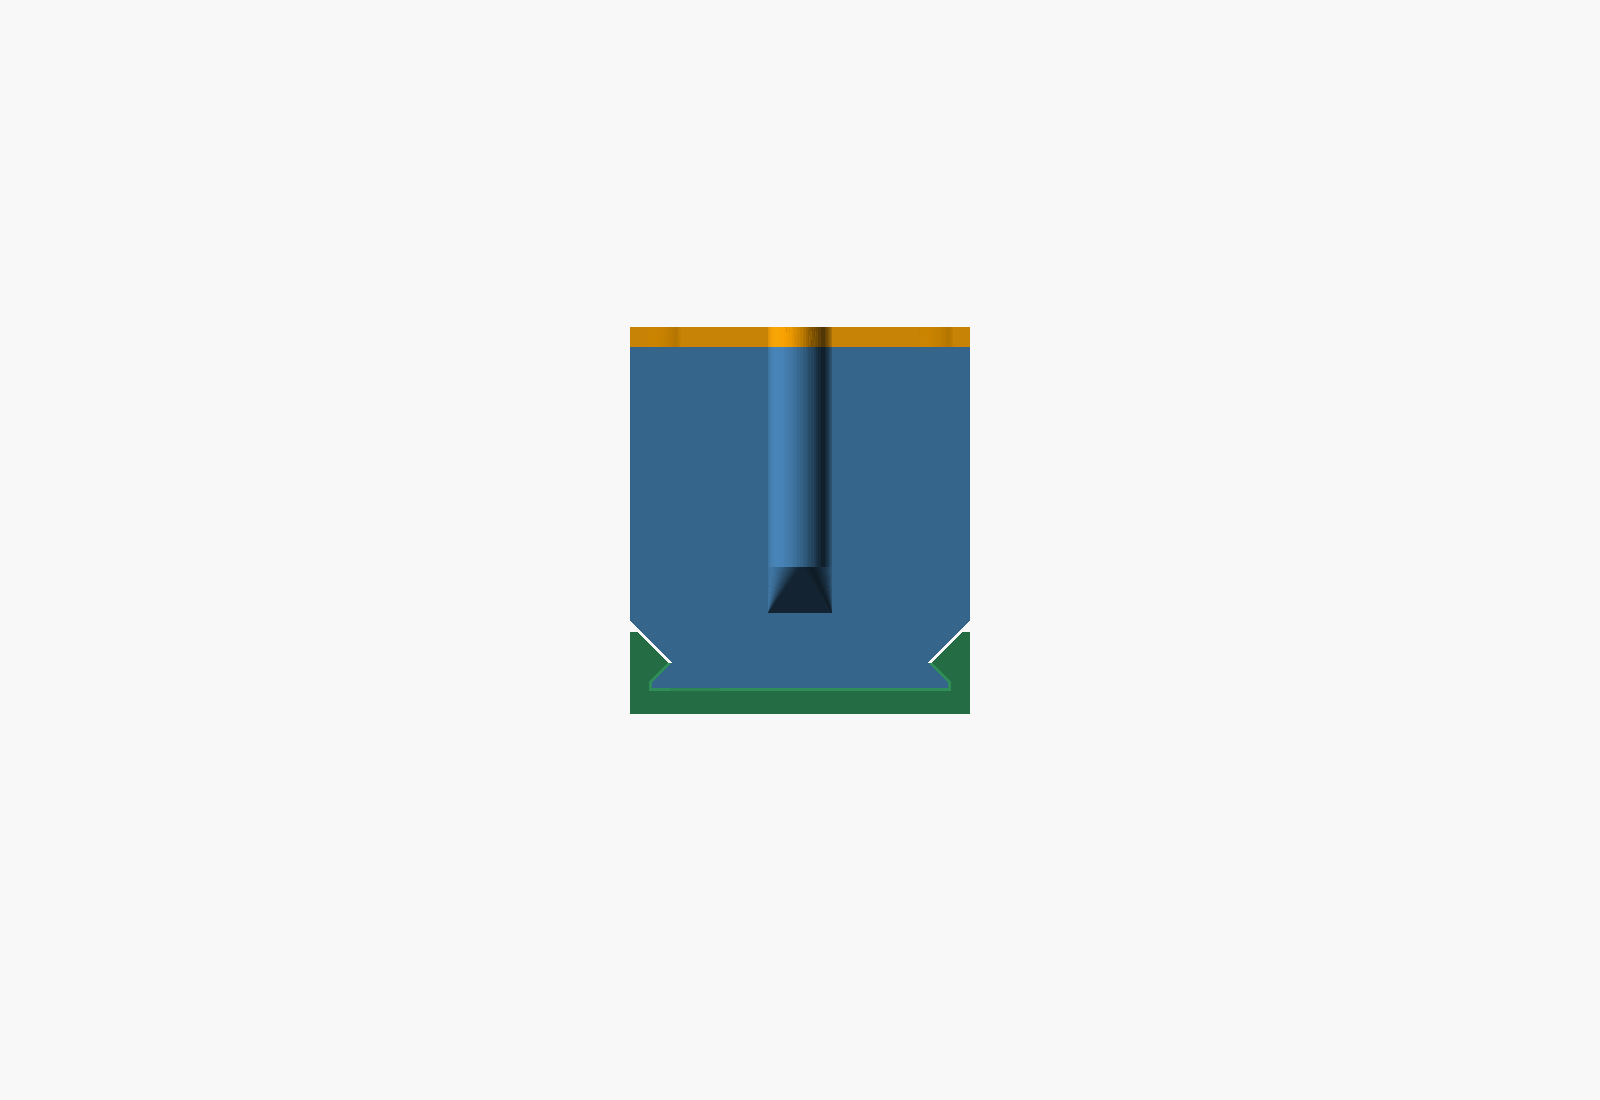
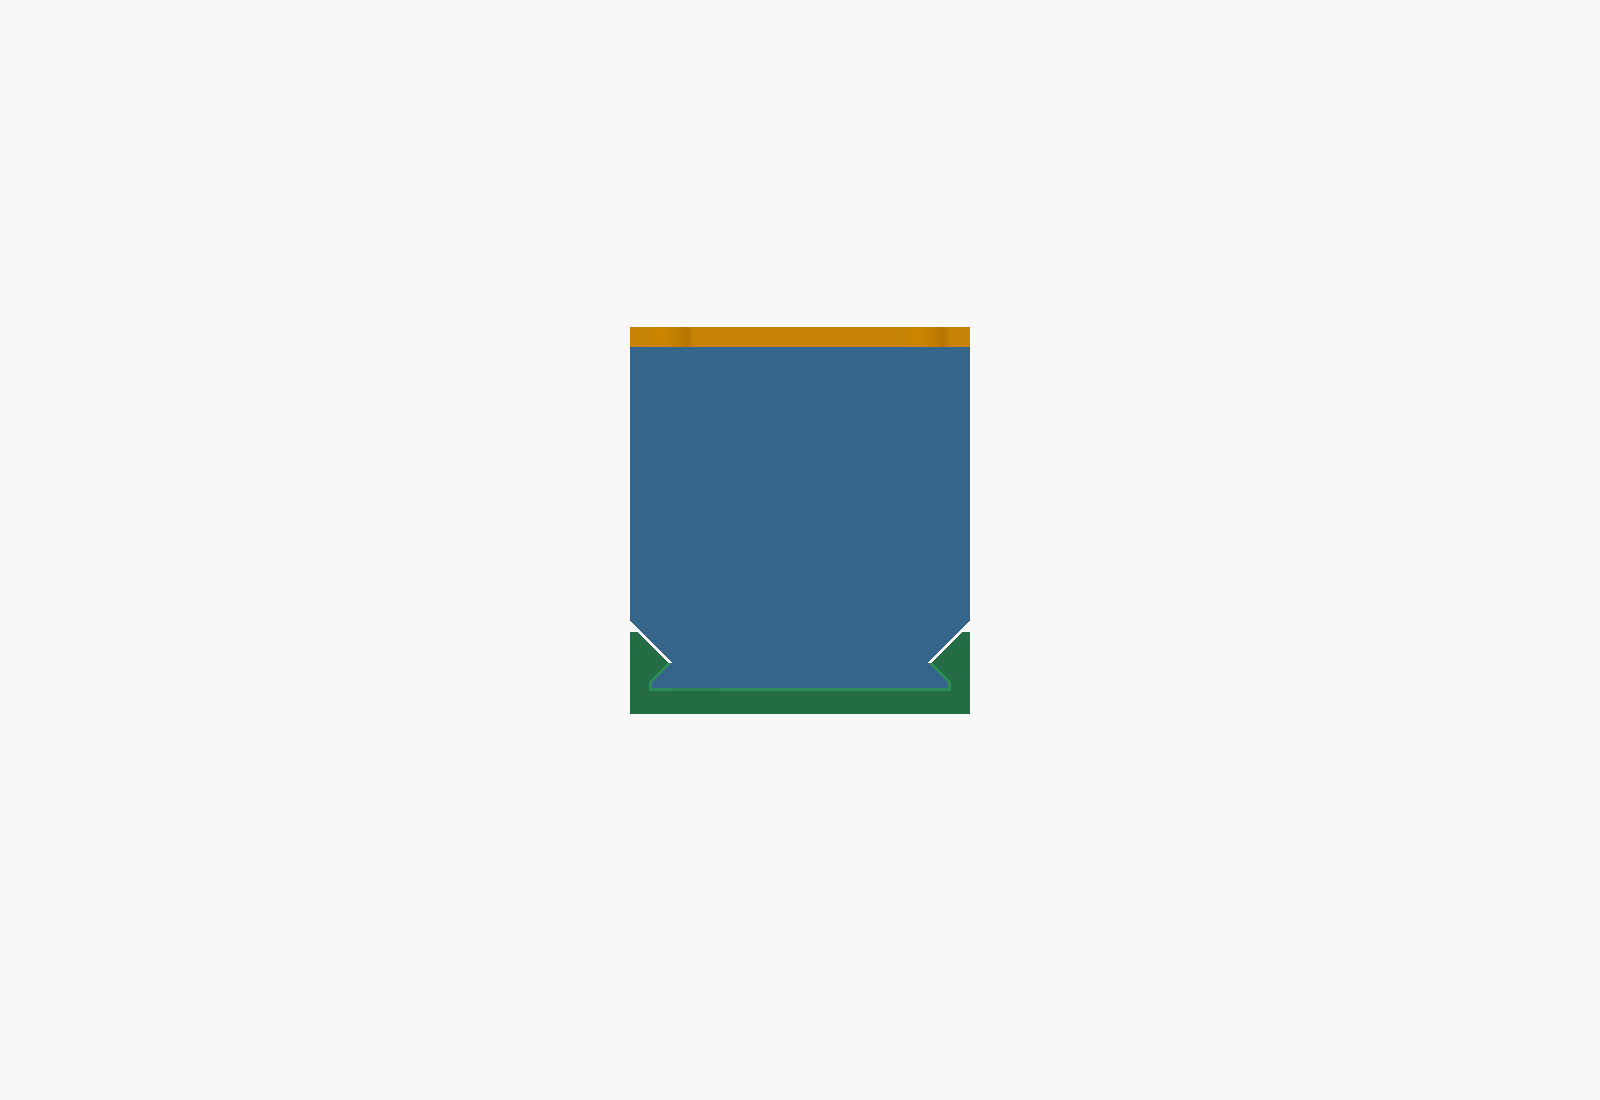
b1-proto-30x70: four long M2 screws hold the lid and the board
The lid has a hollow leg over each corner of the board; a screw down each
leg goes through the board into the post. The head sits on a shoulder
inside the leg, below the lid's top, at a height set by lid_screw_l. No M3
lid screws, no lugs: nothing sticks out of the case.

Changed region(s): [[0.4688, 0.2782, 0.5312, 0.5564]]

diff --git a/b1-proto-30x70/README.md b/b1-proto-30x70/README.md
@@ -124,23 +124,29 @@ was printed and fitted; everything about how this board sits in it is new.
 
 | Part | What it does | How to print |
 |---|---|---|
-| `body` | Open box. The board sits on four corner posts, held by an M2 x 5 screw in each corner hole. The Node hangs below the board, the Timer stands above it | Floor down, as exported. No supports |
-| `lid` | Closes the box with three M3 screws; a tab fills the wall above the Ethernet jack | Outer face down, as exported. No supports |
+| `body` | Open box. The board sits on four corner posts, one under each corner hole. The Node hangs below the board, the Timer stands above it | Floor down, as exported. No supports |
+| `lid` | Four hollow legs stand on the board's corners. A long M2 screw down each leg goes through the board and into the post, so the same four screws hold the lid and the board. A tab fills the wall above the Ethernet jack | Outer face down, legs up, as exported. No supports |
 | `base-flat` | Plate for sitting on the ground. Its sides are flush with the case's | Plate down, as exported. No supports |
 | `base-pvc-half-inch`, `base-pvc-three-quarter-inch` | Snap-on pipe clip with an M3 set screw against rotation, threaded straight into the plastic | Standing on its far end, as exported. No supports |
 | `base-strap` | Saddle with one tunnel for a 20 mm strap | Standing on its far end, as exported. No supports |
 
-Case 91 x 35 x 37 mm (95 mm over the lid's end lug). A base adds 3 mm underneath and nothing
-at the sides.
+Case 91 x 35 x 37 mm, with nothing sticking out of it. A base adds 3 mm underneath and
+nothing at the sides.
 
 ![Flat base: flush with the sides](pictures/assembly-flat.png)
 
-- **One opening, for the Ethernet jack.** To reach either USB-C port, take the lid off, undo
-  the four M2 screws and lift the board out.
-- **Nothing sticks out of the long sides.** The lid's screws are inside the two Ethernet-end
-  corners and on the far end wall, so a base is exactly as wide as the case. The dovetail
-  foot is set in from the sides for the same reason: the base's rails sit under the case's
-  sloped lower edges.
+- **One opening, for the Ethernet jack.** To reach either USB-C port, undo the four screws,
+  take the lid off and lift the board out.
+- **Four screws for everything.** Each sits on a shoulder inside its leg, below the top of
+  the lid. How far below depends on the screw: set `lid_screw_l` to the length you have and
+  the shoulder moves so that 4.5 mm of screw goes into the post. An M2 x 20 sits 9 mm down;
+  anything from about M2 x 10 to M2 x 30 works, and `build.sh` prints a warning outside
+  that.
+- **Nothing sticks out of the case.** There are no lugs. The dovetail foot is set in from
+  the sides for the same reason: the base's rails sit under the case's sloped lower edges,
+  so a base is exactly as wide as the case.
+- **With the lid off**, the board can still be screwed to its posts with M2 x 5 screws, for
+  bench work.
 - **A base slides on from the Ethernet end** until the case meets the stop at the base's
   Ethernet end, and clicks. A pull on the Ethernet cable pushes the case into the stop. Pull
   the case towards the far end to take it off.
@@ -150,8 +156,9 @@ at the sides.
 
 ### Hardware
 
-- 4 x M2 x 5 screw: board to the corner posts. They cut their own thread.
-- 3 x M3 screw, 8 to 12 mm: lid.
+- 4 x long M2 screw, all the same length (`lid_screw_l`, 20 mm as drawn): lid and board
+  together. They cut their own thread in the posts.
+- Optional, 4 x M2 x 5: the board alone, with the lid off.
 - Pipe base only: 1 x M3 screw, 8 or 10 mm, as a set screw. It cuts its own thread in the
   clip; there is no nut.
 
@@ -167,6 +174,7 @@ Parameters at the top of `case.scad`.
 
 | Parameter | Value | What to measure |
 |---|---|---|
+| `lid_screw_l` | 20 | **The length of your long M2 screws, under the head.** Set it before exporting |
 | `mh_inset` | 2.0 | Centre of a corner mounting hole to each edge of the protoboard. Measured with a ruler on the built board, not calipers. The posts and their screw holes follow it |
 | `under_h` | 10 | Room below the protoboard. Measured on the built board: 7 mm from the underside of the protoboard to the top of the Node's USB-C, its highest point. That leaves 3 mm, which the antenna lead shares |
 | `board_t` | 1.6 | Protoboard thickness |
@@ -182,7 +190,11 @@ parts, and these in particular.
 
 - **Corner screws beside the Timer.** The two corner holes at the `A` end are about 2.5 mm
   from the Timer board's edge. On the built board it is tight but nothing covers them.
-- **The lid columns in the Ethernet-end corners** leave 0.6 mm to the Timer board's edge.
+- **The two legs beside the Timer** stop 0.3 mm short of the Timer board's edge, which leaves
+  the head's bore open on that side. The two far legs are whole tubes.
+- **The legs** are 21 mm tall and 6 mm wide, printed standing on the lid. They are the
+  delicate part until the case is screwed together.
+- **The screw's shoulder** is a small ring printed as an overhang inside each leg.
 - **The wires on top** pass the corner screw heads and the outer rows; `head` and the
   2.5 mm beside the Timer are all the room they have.
 - **The click tongue and the clips** carry over from a printed case, but on a narrower base.
